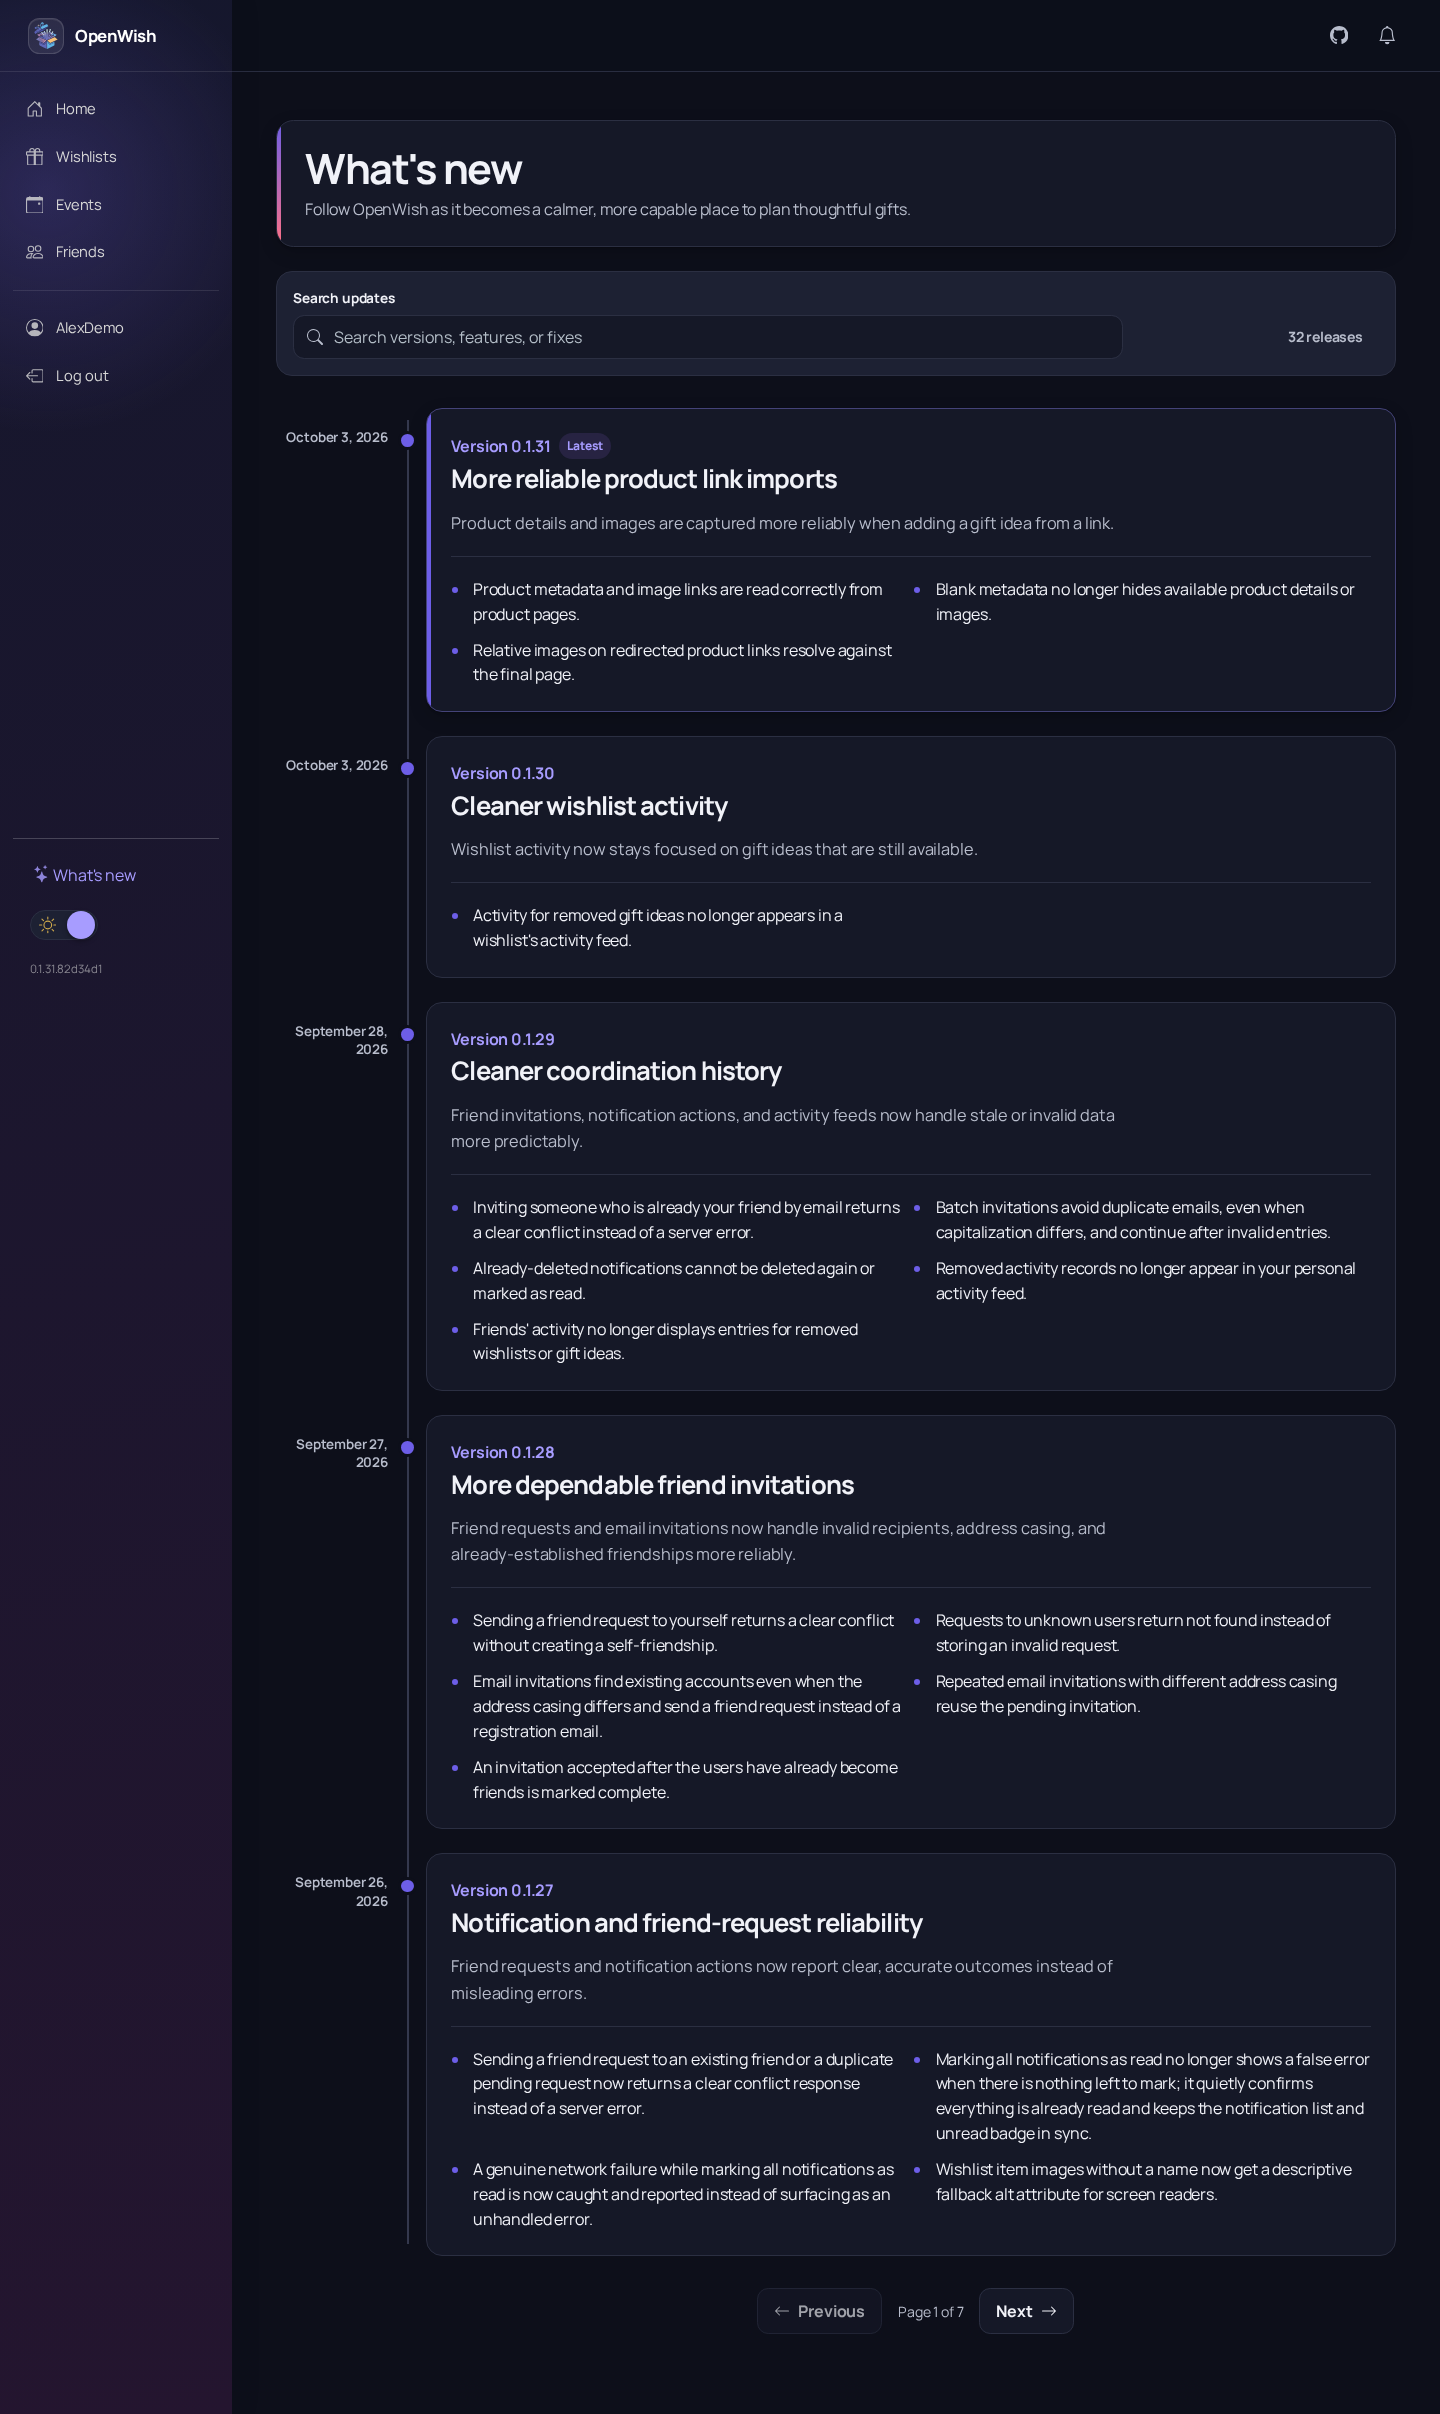
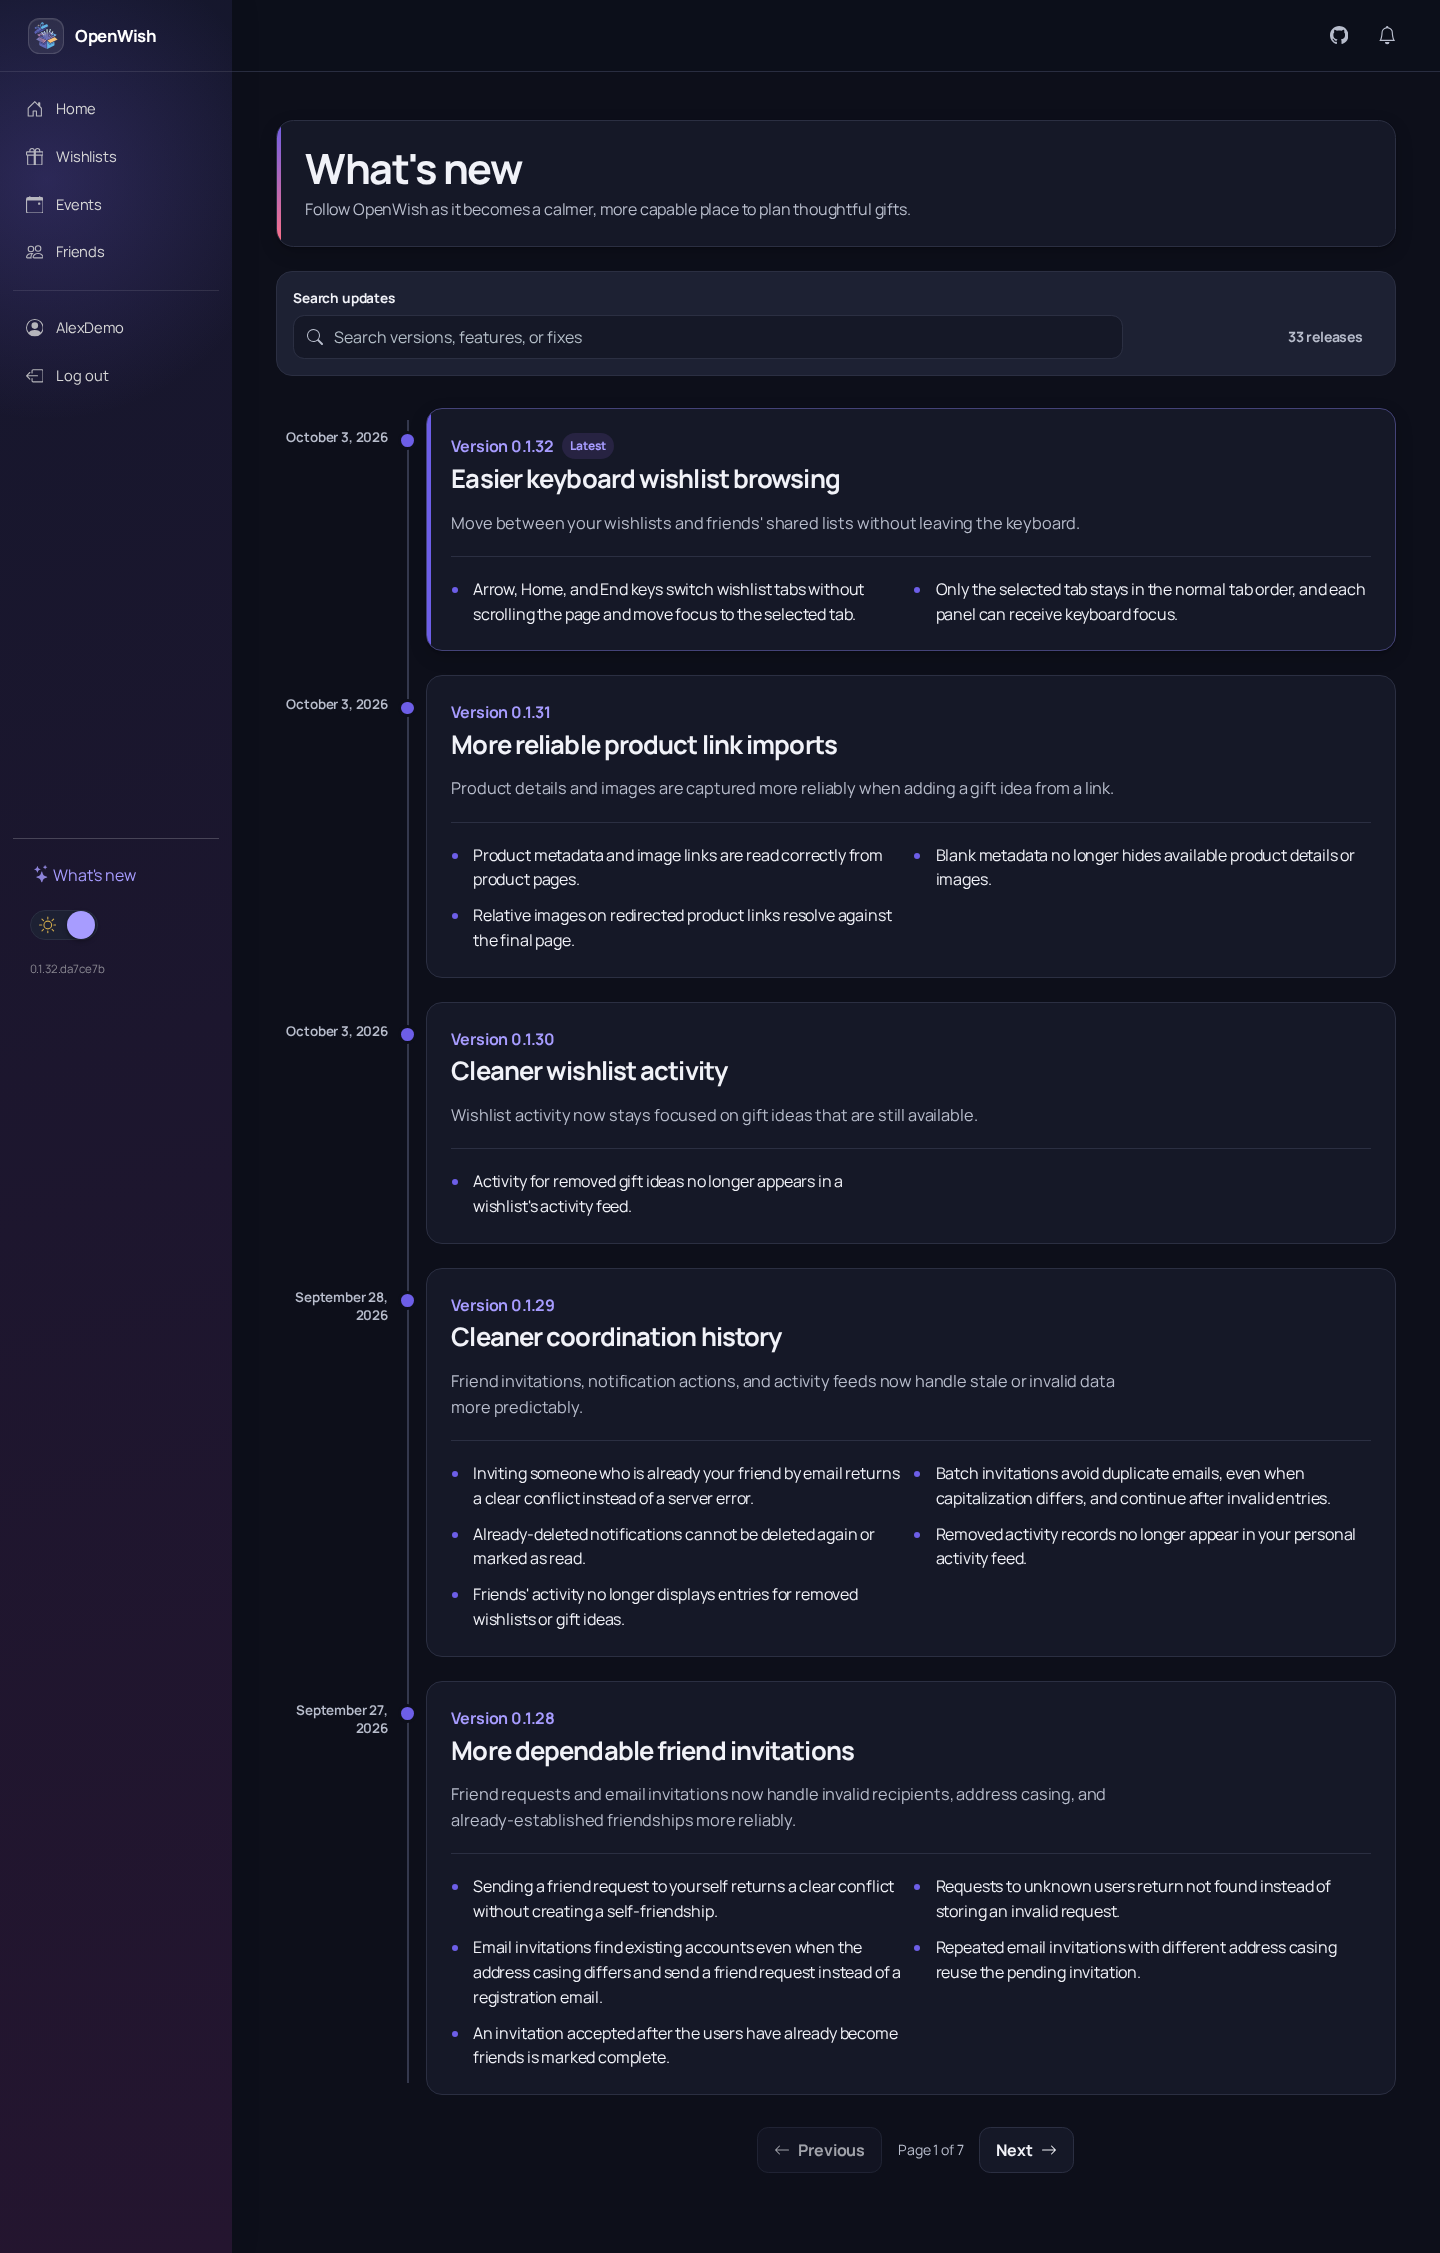
Make wishlist tabs keyboard navigable (#114)
* Make wishlist tabs keyboard navigable

* Prevent native scrolling during wishlist tab navigation

---------

diff --git a/src/OpenWish.Web/wwwroot/app.js b/src/OpenWish.Web/wwwroot/app.js
@@ -205,6 +205,14 @@ document.addEventListener("change", event => {
     }
 });
 
+document.addEventListener("keydown", event => {
+    if (event.target instanceof Element &&
+        event.target.closest("#wishlistTabs [role='tab']") &&
+        ["ArrowLeft", "ArrowRight", "Home", "End"].includes(event.key)) {
+        event.preventDefault();
+    }
+});
+
 document.addEventListener("click", event => {
     if (!(event.target instanceof Element) ||
         !event.target.closest(".nav-scrollable a, .nav-scrollable button")) {

diff --git a/src/OpenWish.Shared.Tests/Accessibility/InteractiveControlMarkupTests.cs b/src/OpenWish.Shared.Tests/Accessibility/InteractiveControlMarkupTests.cs
@@ -54,6 +54,27 @@ public class InteractiveControlMarkupTests
     }
 
     [Fact]
+    public void WishlistTabs_KeepOneTabInTheTabOrderAndSupportArrowHomeEndKeys()
+    {
+        var markup = ReadComponent("OpenWish.Web.Client", "Components", "Pages", "Wishlists", "Index.razor");
+        var script = ReadComponent("OpenWish.Web", "wwwroot", "app.js");
+
+        Assert.Contains("tabindex=\"@(activeTab == \"my-wishlists\" ? 0 : -1)\"", markup, StringComparison.Ordinal);
+        Assert.Contains("tabindex=\"@(activeTab == \"friends-wishlists\" ? 0 : -1)\"", markup, StringComparison.Ordinal);
+        Assert.Contains("aria-selected=\"@(activeTab == \"my-wishlists\" ? \"true\" : \"false\")\"", markup, StringComparison.Ordinal);
+        Assert.Contains("aria-selected=\"@(activeTab == \"friends-wishlists\" ? \"true\" : \"false\")\"", markup, StringComparison.Ordinal);
+        Assert.Contains("@onkeydown=\"HandleTabKeyDown\"", markup, StringComparison.Ordinal);
+        Assert.Contains("\"ArrowRight\" or \"ArrowLeft\"", markup, StringComparison.Ordinal);
+        Assert.Contains("\"Home\" => \"my-wishlists\"", markup, StringComparison.Ordinal);
+        Assert.Contains("\"End\" => \"friends-wishlists\"", markup, StringComparison.Ordinal);
+        Assert.Contains("_pendingTabFocus = target;", markup, StringComparison.Ordinal);
+        Assert.Contains("_friendsWishlistsTab).FocusAsync()", markup, StringComparison.Ordinal);
+        Assert.Contains("event.target.closest(\"#wishlistTabs [role='tab']\")", script, StringComparison.Ordinal);
+        Assert.Contains("[\"ArrowLeft\", \"ArrowRight\", \"Home\", \"End\"].includes(event.key)", script, StringComparison.Ordinal);
+        Assert.Contains("event.preventDefault();", script, StringComparison.Ordinal);
+    }
+
+    [Fact]
     public void WishlistDiscovery_DistinguishesNoListsFromNoMatches()
     {
         var markup = ReadComponent("OpenWish.Web.Client", "Components", "Pages", "Wishlists", "Index.razor");

diff --git a/.docs/releases/2026-10-03-0.1.32-keyboard-wishlist-tabs.md b/.docs/releases/2026-10-03-0.1.32-keyboard-wishlist-tabs.md
@@ -1,0 +1,11 @@
+# Easier keyboard wishlist browsing - October 3, 2026
+
+The wishlist tabs now work as a keyboard tab set. Use the left and right arrow
+keys to move between your wishlists and friends' shared lists, or Home and End
+to jump to either end. Focus follows the selected tab, and Tab moves into its
+panel instead of stopping on a hidden choice. Switching tabs does not scroll
+the page to the top or bottom.
+
+Accessibility markup tests and the isolated browser journey cover focus,
+selection, loaded wishlist content, authenticated API responses, and desktop
+and mobile screenshots.

diff --git a/CHANGELOG.md b/CHANGELOG.md
@@ -2,6 +2,12 @@
 
 All notable user-facing changes to OpenWish are documented here.
 
+## [0.1.32] - 2026-10-03
+
+### Improved
+
+- Wishlist tabs now support arrow, Home, and End keys, keeping keyboard focus and the selected panel together without scrolling the page.
+
 ## [0.1.31] - 2026-10-03
 
 ### Improved
